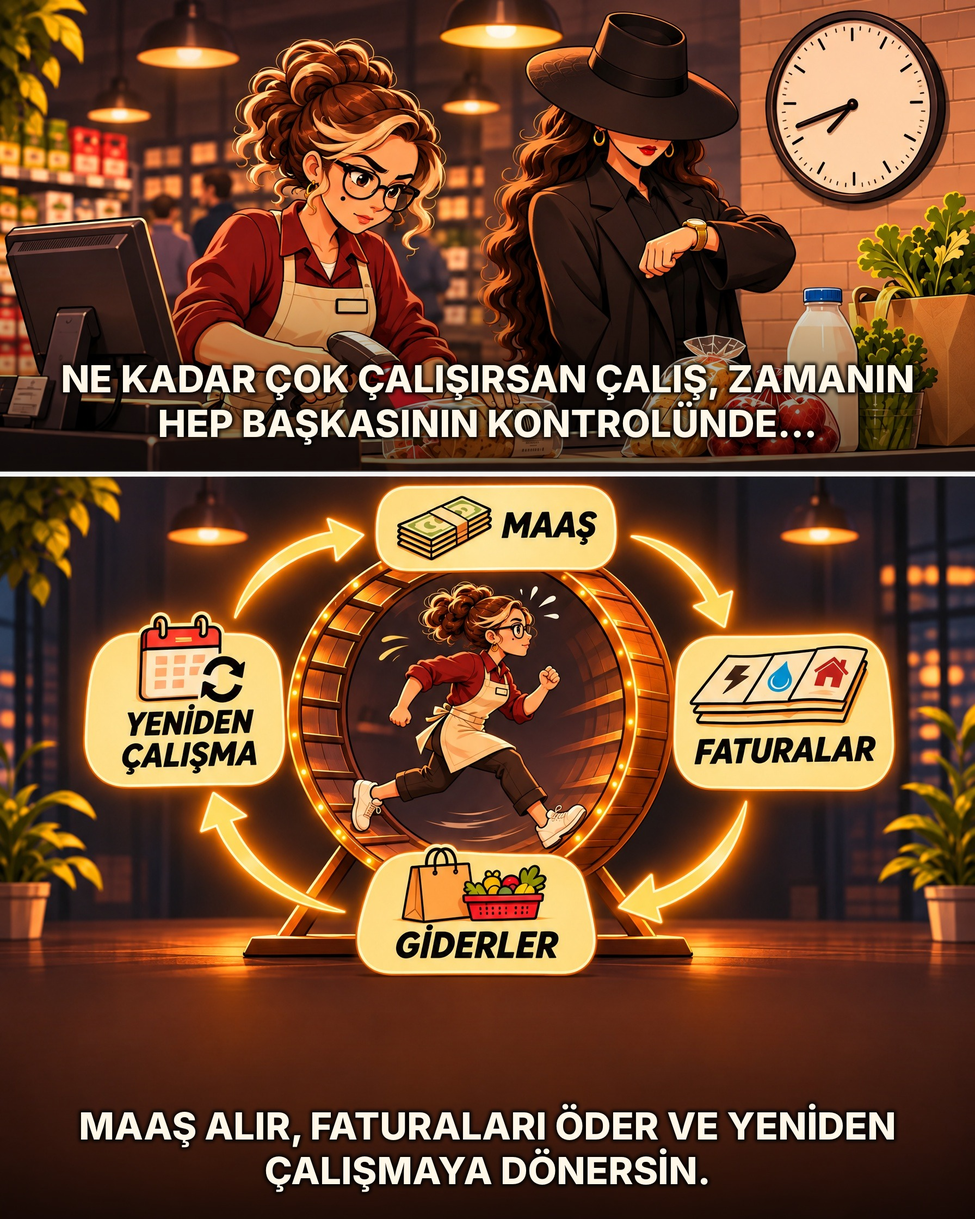
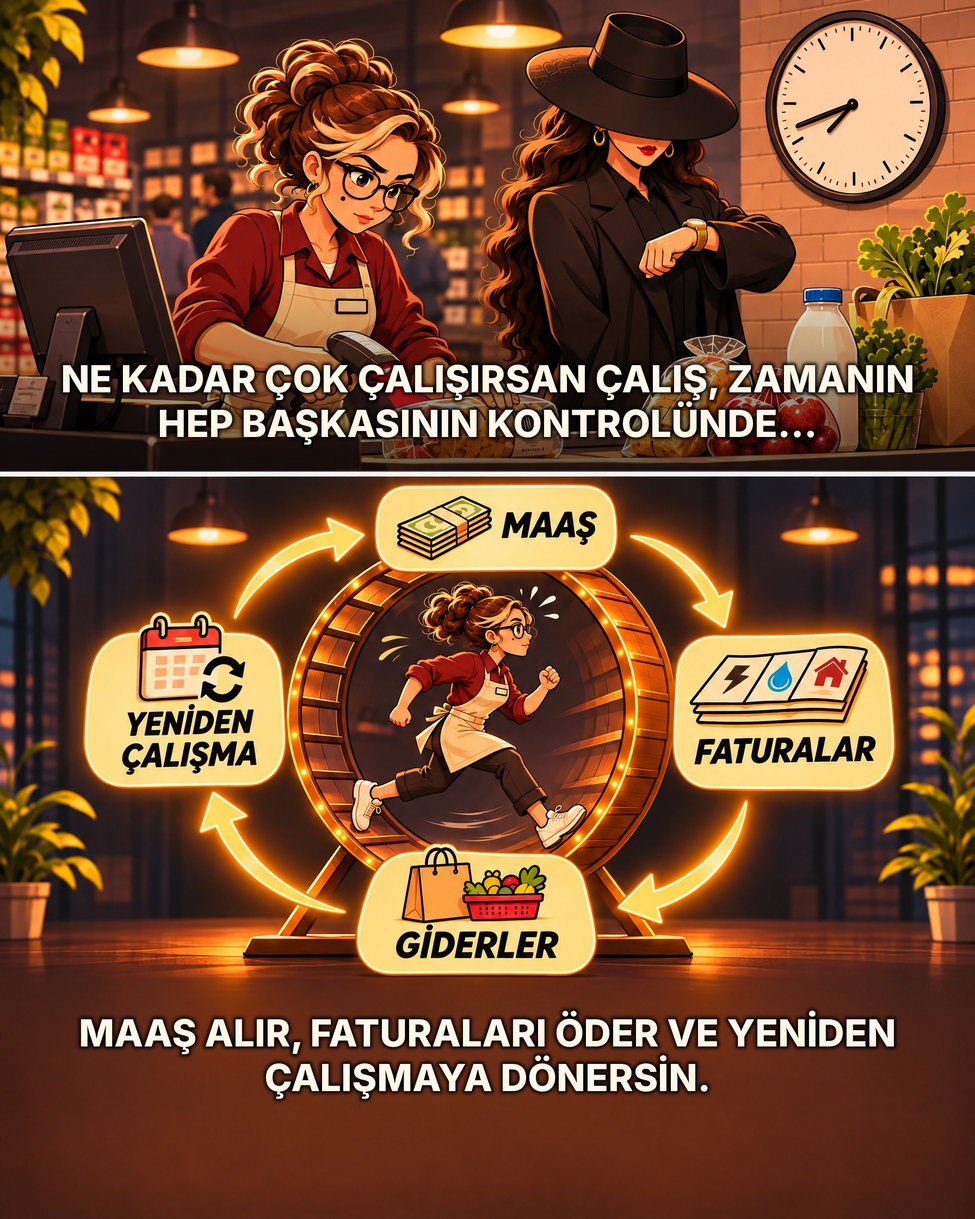
Gönderi 5 sayfa 4: alt panel karartması kaldırıldı, yazı şemaya yaklaştırıldı
Claude-Session: https://claude.ai/code/session_01DJnELUg2datGduMzoawH2g

Changed region(s): [[0.0, 0.8125, 1.0, 1.0]]

diff --git a/dark-money/tools/post5_yazi.py b/dark-money/tools/post5_yazi.py
@@ -78,22 +78,26 @@ def text_block(im,lines,cy,cx=None):
             _,x,yy,t,fill,f=it; d.text((x,yy),t,font=f,fill=fill)
     return base.convert("RGB")
 
-def panel_caption(im,text,bottom,H,cx=None,wfrac=0.92,sizes=(0.031,0.029,0.027,0.025),maxlines=2):
+def panel_caption(im,text,bottom,H,cx=None,wfrac=0.92,sizes=(0.031,0.029,0.027,0.025),maxlines=2,cy=None):
     # önce en büyük punto ile en fazla 'maxlines' satıra sığdırmayı dener, olmazsa en küçük punto ile sığdırır
     W=im.size[0]; d=ImageDraw.Draw(im)
     for k,sz in enumerate(sizes):
         size=int(H*sz); f=ImageFont.truetype(FONT,size); ql=wrap(d,up(text),f,W*wfrac)
         if len(ql)<=maxlines: break
     h=len(ql)*int(size*1.2)
-    return text_block(im,[[(l,CREAM,size)] for l in ql],bottom-h/2-H*0.022,cx)
+    return text_block(im,[[(l,CREAM,size)] for l in ql],cy if cy is not None else bottom-h/2-H*0.022,cx)
 
 os.makedirs(OUT,exist_ok=True)
 for n in range(1,7):
     im=Image.open(f"{SRC}/sayfa{n}.jpg").convert("RGB"); W,H=im.size; dv=divider(im)
-    im=gradient(im,int(dv-H*0.17),dv-4,0.62); im=gradient(im,int(H-H*0.17),H,0.65)
+    im=gradient(im,int(dv-H*0.17),dv-4,0.62)
+    if n!=4: im=gradient(im,int(H-H*0.17),H,0.65)   # sayfa 4 alt panel: karartma yok
     top,bot=T[n]
     im=panel_caption(im,top,dv-4,H)
-    if n==6:
+    if n==4:
+        # alt panelde yazı, döngü şemasının hemen altına yaklaştırıldı
+        im=panel_caption(im,bot,H,H,cy=H*0.865)
+    elif n==6:
         # defterdeki yazılar görünür kalsın: alt yazı defterin sağındaki boş masa alanına yazılır
         im=panel_caption(im,bot,H,H,cx=W*0.745,wfrac=0.44,sizes=(0.0275,0.026,0.0245),maxlines=6)
     else:
